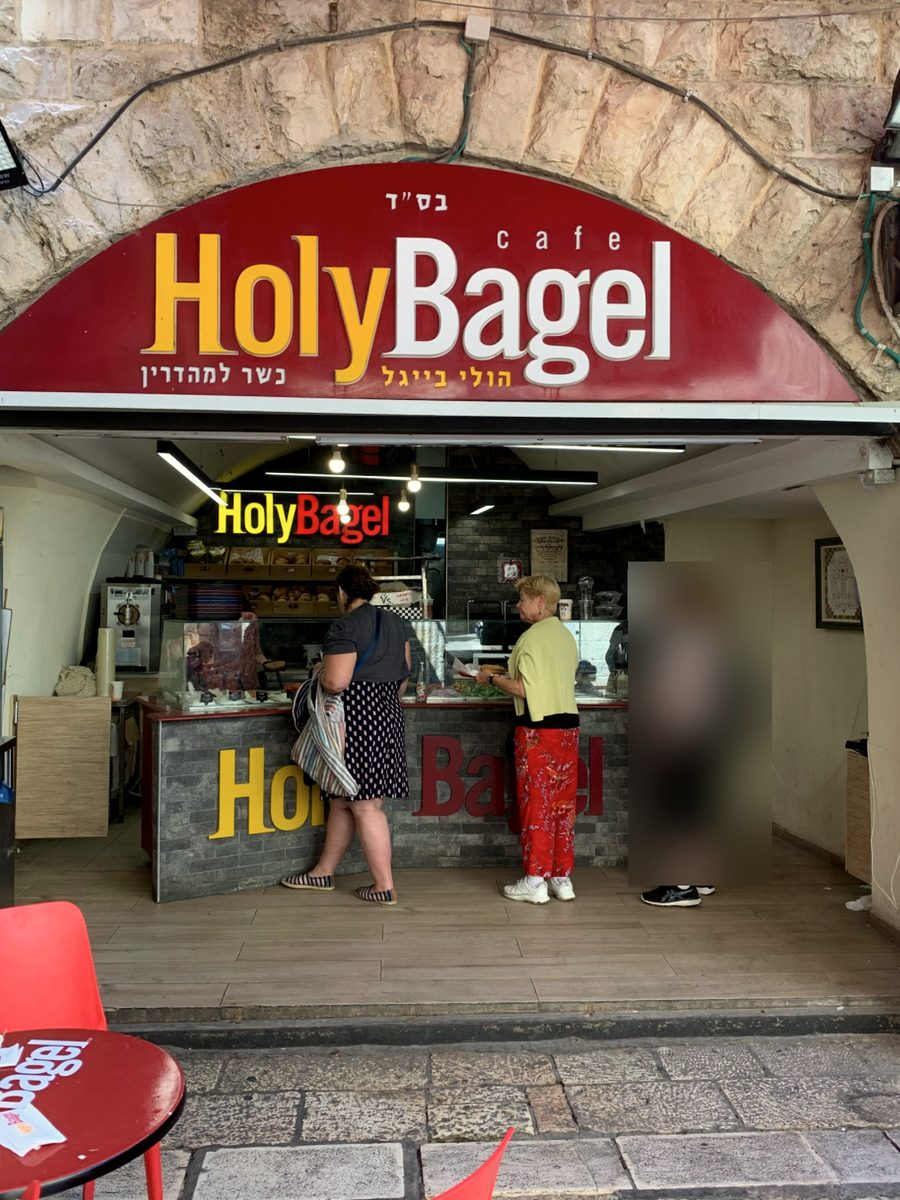
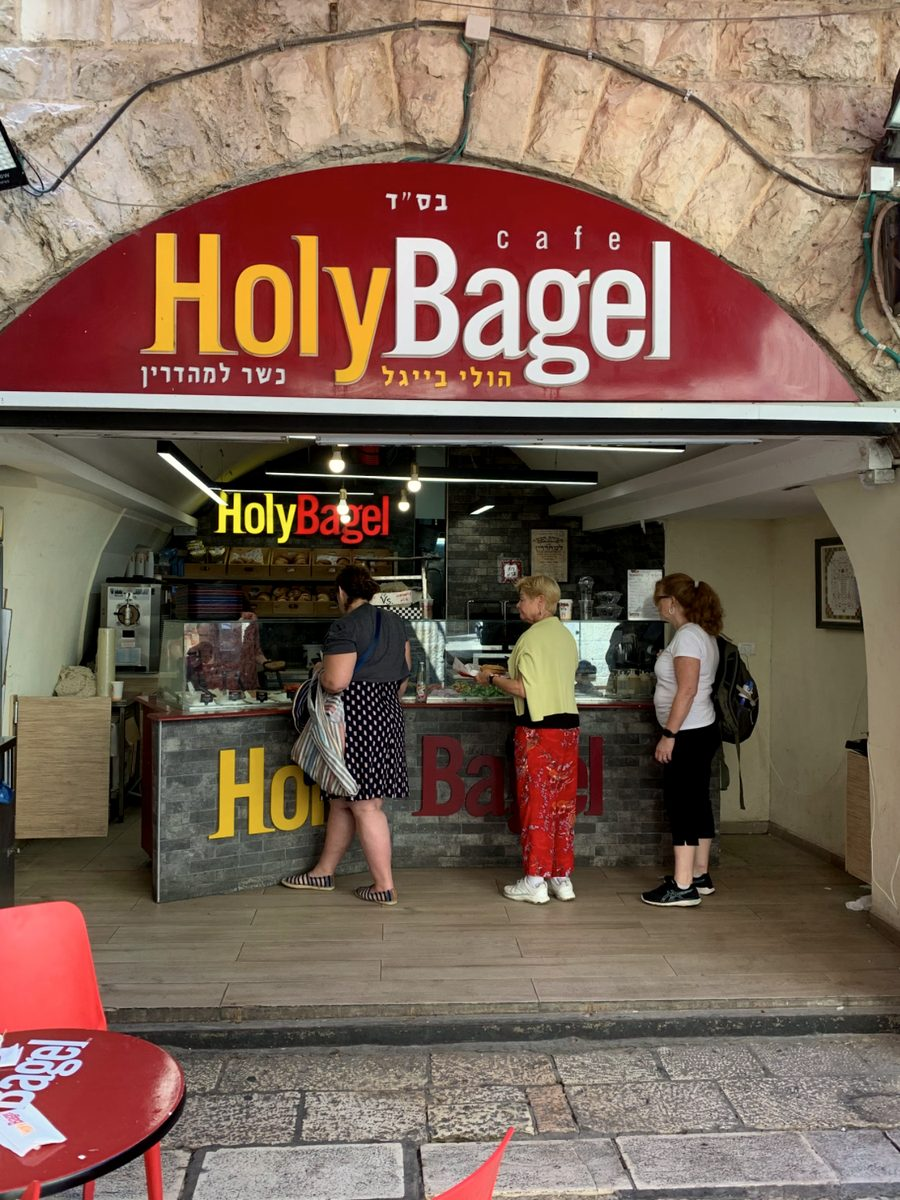
Holy Bagel photo unblurred
Claude-Session: https://claude.ai/code/session_01L1pMk9pvWmofH5XXpyXNuy

Changed region(s): [[0.6844, 0.4625, 0.8711, 0.74]]

diff --git a/app/tools/make_fsy_walk_assets.py b/app/tools/make_fsy_walk_assets.py
@@ -179,7 +179,7 @@ PHOTOS = {
     "zion-sign": "photos/oct27b/david-tomb-sign.png",
     "cod-entrance": "photos/oct27b/water-systems-sign.png",
     "jewish-spices": ("photos/oct27b/jewish-quarter-spices.png", (0, 1150, 1125, 2000)),   # the bowls only, people left out
-    "jewish-bagel": ("photos/oct27b/holy-bagel.png", None, [(785, 1170, 965, 1575)]),   # Richard's wife blurred
+    "jewish-bagel": "photos/oct27b/holy-bagel.png",   # Richard's wife, from behind: she said it's fine unblurred (Oct 30)
     "caiaphas-above": "photos/caiaphas/pit-from-above-crosses.png",
     "caiaphas-mosaic": "photos/caiaphas/mosaic-lowest-pit.png",
     "caiaphas-sign": "photos/caiaphas/sacred-pit-sign.png",

diff --git a/docs/fsy/FIX-LIST.md b/docs/fsy/FIX-LIST.md
@@ -115,3 +115,4 @@ Last build sent: v3z (fixes 1–12 below; 11 still to do). App Store name: Lamp 
 |---|---|---|
 | 1 | Stuck at "Choose a souvenir" in Gabriel's: the "buy the model first" message was a toast that vanished in three seconds. It is now a proper card with a "Buy the model (30 shekels)" button that goes straight on to choosing | Done in code, waiting for the build |
 | 2 | Holy Bagel: tap the counter to buy a bagel (12, or 14 with cream cheese); tap again to eat it on the red chair, and your lamp gains a drop of oil (hints cost one) | Done in code, waiting for the build |
+| 3 | Holy Bagel photo unblurred (Richard's wife said it is fine; she is side-on in the queue) | Done in code, waiting for the build |
